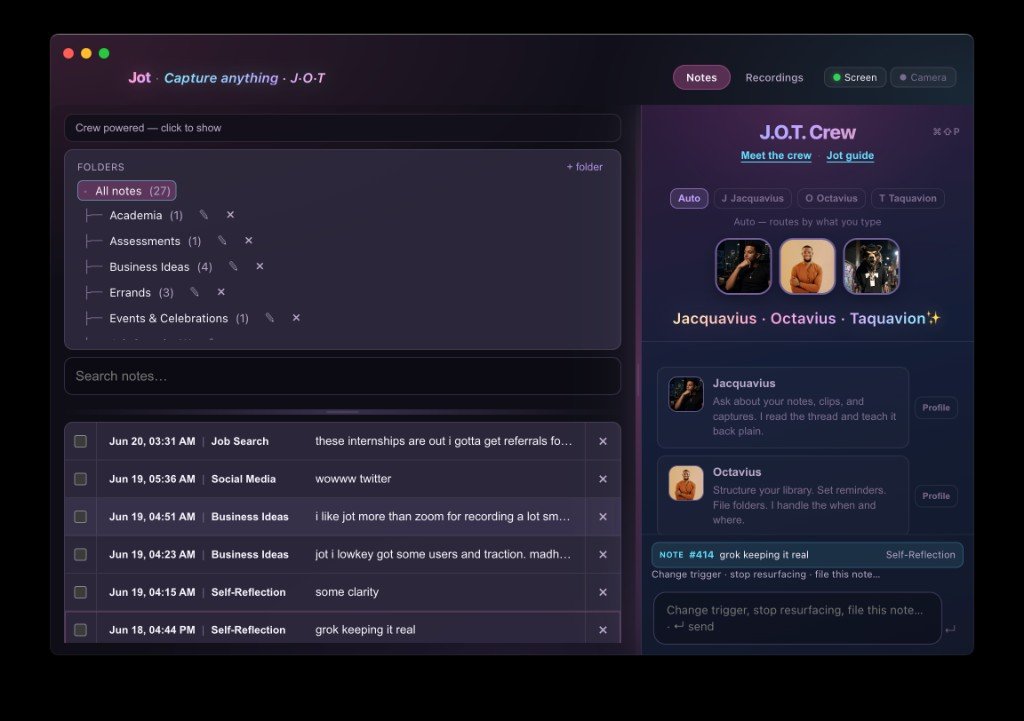
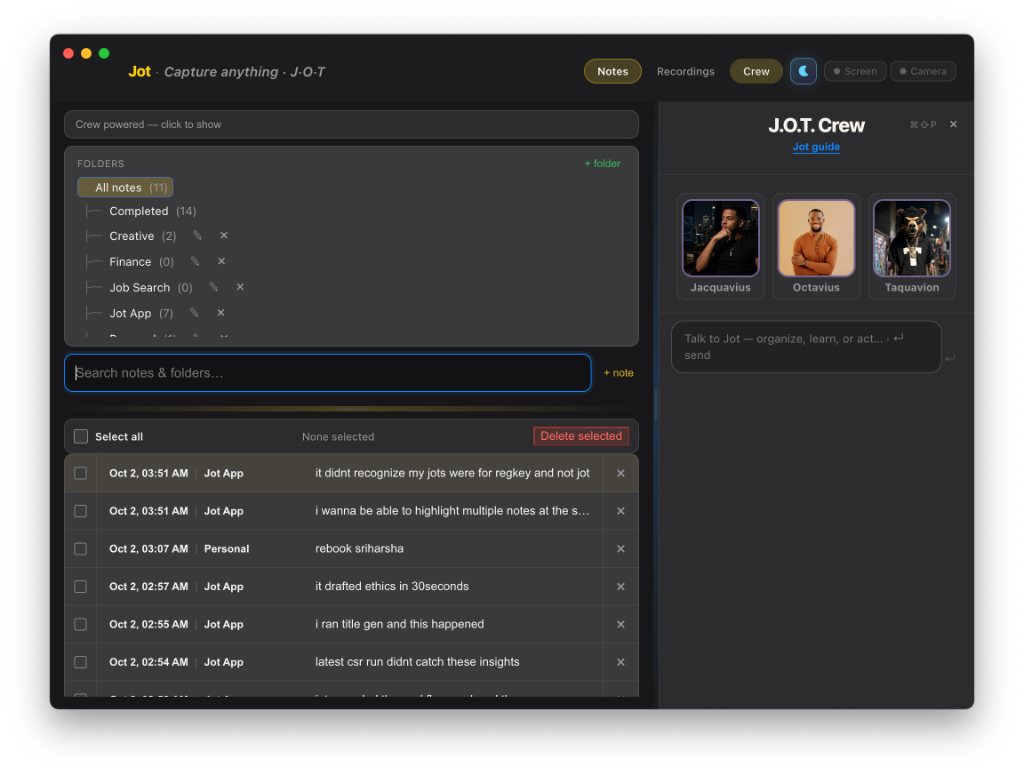
chore: publish website from jot monorepo

diff --git a/index.html b/index.html
@@ -72,7 +72,7 @@
         <span class="eyebrow" data-reveal>What Jot is</span>
         <h2 class="statement" id="about-title" data-split>Say when in plain English. One calm card comes back when the moment matches.</h2>
         <div class="about-img wide" data-reveal>
-          <img src="assets/jot-workspace-screenshot.png" alt="Jot Workspace — notes library on the left, Jot crew chat on the right" width="1024" height="746" />
+          <img src="assets/jot-workspace-screenshot.png" alt="Jot Workspace — notes library on the left, Jot crew chat on the right" width="1024" height="775" />
         </div>
         <p class="lede" data-reveal>Jacquavius, Octavius, and Taquavion are three brothers who work as one crew. You talk to the crew. The local policy decides whether anything interrupts you.</p>
         <div data-reveal><a class="btn" href="#crew" data-magnetic>Try the crew <span class="ico"><svg viewBox="0 0 12 12" aria-hidden="true"><path d="M2.5 9.5 9.5 2.5M4 2.5h5.5V8" /></svg></span></a></div>

diff --git a/workspace.html b/workspace.html
@@ -54,7 +54,7 @@
         <span class="eyebrow">What’s included</span>
         <h2 class="statement" id="ws-title">Folders, notes, and the Jot crew in one window.</h2>
         <div class="about-img wide">
-          <img src="assets/jot-workspace-screenshot.png" alt="Workspace — folders, notes list, and Jot crew sidebar" width="1024" height="746" />
+          <img src="assets/jot-workspace-screenshot.png" alt="Workspace — folders, notes list, and Jot crew sidebar" width="1024" height="775" />
         </div>
         <p class="lede">Crew chat with ⌘⇧P. A notes library with search. Screen and camera recordings. The same local policy as Reminders.</p>
       </div>
